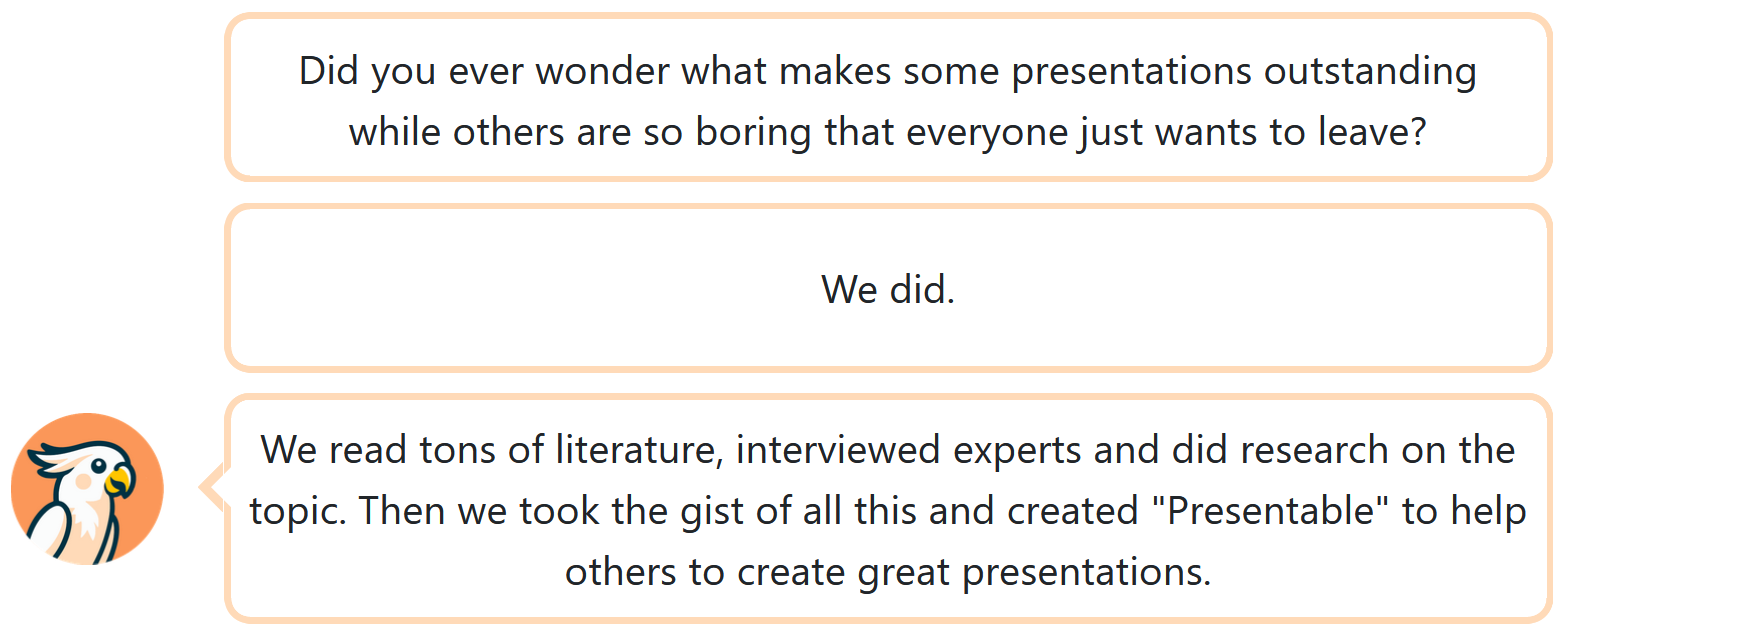
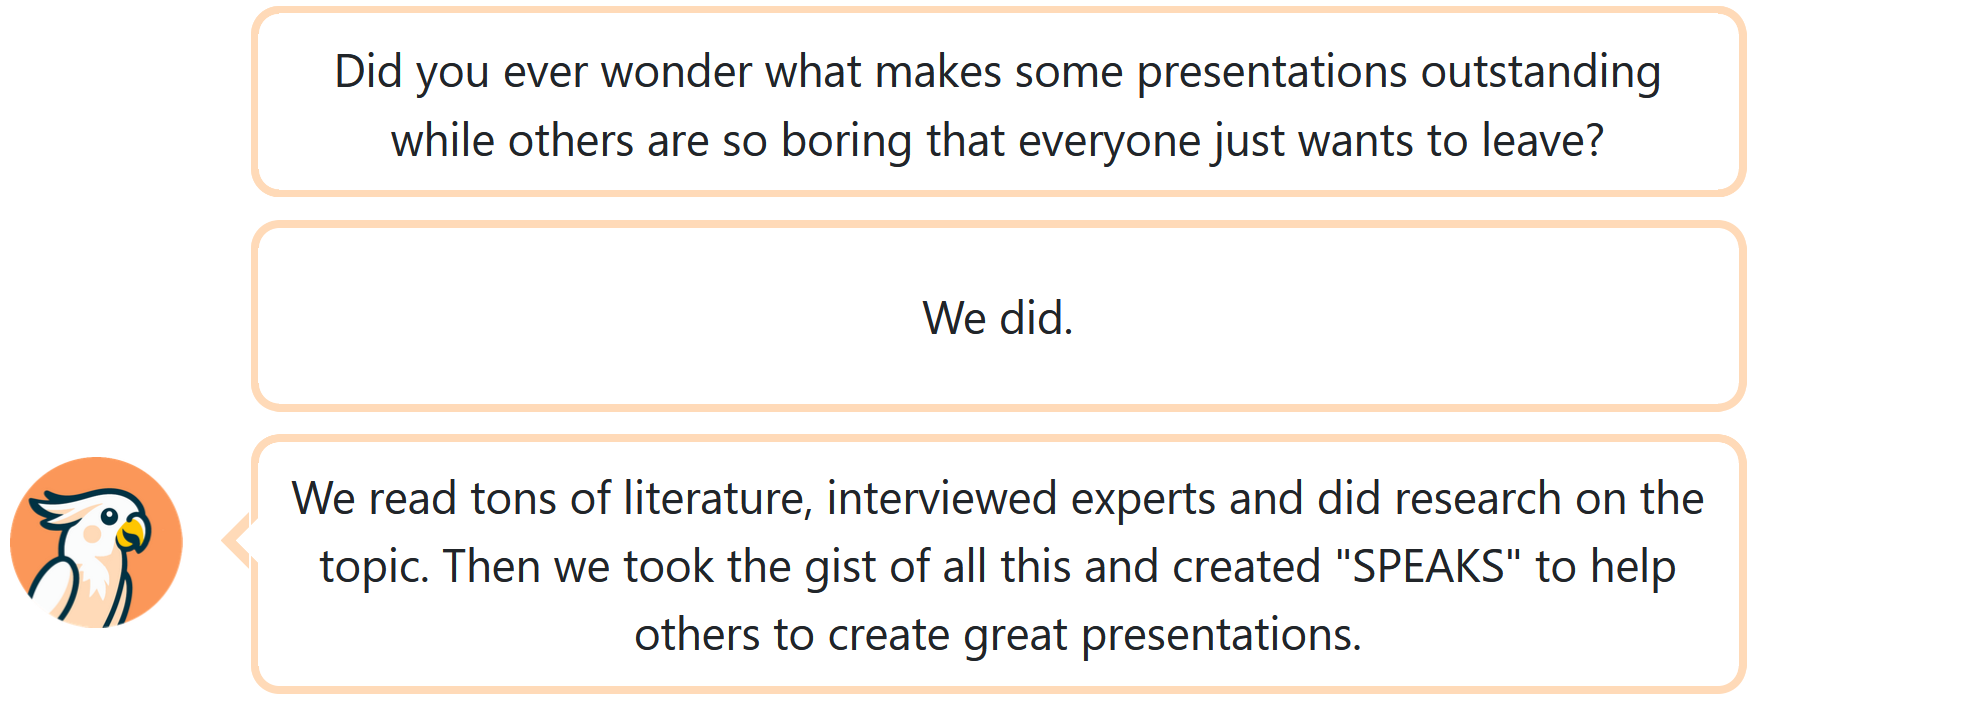
Add content

diff --git a/index.html b/index.html
@@ -302,8 +302,8 @@
                       <br><sup>3</sup> Cologne Game Lab, TH Köln, Germany
                       <br><sup>4</sup> German University of Digital Science, Potsdam, Germany
                       </span>
-                      <span class="author-block" style="color: #555555;">
-                      <br>24th European Conference on E-Learning | ECEL 2025</span>
+                      <span class="author-block is-size-5" style="color: #555555; padding-top: 10px;">
+                      24th European Conference on E-Learning | ECEL 2025</span>
                   </div>
 
                   <div class="column has-text-centered">
@@ -348,7 +348,7 @@
 </section>
 
 <!-- Teaser video-->
-<section class="hero teaser">
+<section class="hero teaser" style="margin-top: -3rem;">
   <div class="container is-max-desktop">
     <div class="hero-body">
         <!-- <h2 class="title is-3  has-text-centered">At a glance</h2> -->
@@ -474,6 +474,64 @@
 </section>-->
 <!-- End image carousel -->
 
+<!-- Image carousel -->
+<section class="hero is-small">
+  <div class="hero-body">
+    <div class="container">
+      <h2 class="title is-3 has-text-centered">How SPEAKS looks</h2>
+      <div id="results-carousel" class="carousel results-carousel">
+       <div class="item">
+          <img src="static/images/SPEAKS-screenshot-1.png" alt="" loading="lazy"/>
+        </div>
+        <div class="item">
+          <img src="static/images/SPEAKS-screenshot-2.png" alt="" loading="lazy"/>
+        </div>
+        <div class="item">
+          <img src="static/images/SPEAKS-screenshot-3.png" alt="" loading="lazy"/>
+        </div>
+        <div class="item">
+          <img src="static/images/SPEAKS-screenshot-4.png" alt="" loading="lazy"/>
+        </div>
+        <div class="item">
+          <img src="static/images/SPEAKS-screenshot-5.png" alt="" loading="lazy"/>
+        </div>
+        <div class="item">
+          <img src="static/images/SPEAKS-screenshot-6.png" alt="" loading="lazy"/>
+        </div>
+      </div>  
+    </div>
+  </div>
+</section>
+
+
+<!-- Image carousel -->
+<section class="hero is-small">
+  <div class="hero-body">
+    <div class="container">
+      <h2 class="title is-3 has-text-centered">User study</h2>
+      <div id="results-carousel" class="carousel results-carousel">
+       <div class="item">
+        <img src="static/images/experimental-procedure.png" alt="What was our experimental procedure? 1) Welcome & Introduction 2) Pre-test questionnaire: Age, Gender, Confidence 3) Using SPEAKS 4) Post-test questionnaire: Confidence, TAM, open-ended questions" loading="lazy"/>
+        </div>
+        <div class="item">
+          <img src="static/images/RQ1a-perceived-usability.png" alt="RQ1a: What is the perceived usability of SPEAKS? Participants found it easy to learn and intuitive to use, but some said it missed flexibility and enabeling them to do what they want. Additionally, some disagreed with the statement that it was clear and understandable, even though the majority agreed with this statement at least slightly." loading="lazy"/>
+        </div>
+        <div class="item">
+          <img src="static/images/RQ1b-perceived-usefulness.png" alt="RQ1b: What is the perceived usefulness of SPEAKS? Participants found SPEAKS useful." loading="lazy"/>
+        </div>
+        <div class="item">
+          <img src="static/images/RQ1c-perceived-learning.png" alt="RQ1c: What is the perceived learning when using SPEAKS? Participants reported to have learnt more about creating engaging introductions and conclusions and to create them before the middle part." loading="lazy"/>
+        </div>
+        <div class="item">
+          <img src="static/images/RQ2-effect on confidence.png" alt="RQ2: RQ2: How does using SPEAKS affect users' confidence in delivering an elevator pitch? Participants' confidence in delivering a good speech increased significantly after using SPEAKS." loading="lazy"/>    
+        </div>
+        <div class="item">
+          <img src="static/images/RQ-results-summary.png" alt="Overview of the results of all RQ." loading="lazy"/>
+        </div>
+      </div>
+    </div>
+  </div>
+</section>
 
 
 
@@ -565,7 +623,7 @@
         </button>
       </div>
       <pre id="bibtex-code"><code>@article{Mouhammad25N,
-  title      = {From {{Nervous}} to {{Noteworthy}}: {{Evaluating SPEAKS}}, an {{Educational Software}} for {{Speech Content}}},
+  title      = {From Nervous to Noteworthy: Evaluating SPEAKS, an Educational Software for Speech Content},
   author     = {Mouhammad, Nina and Schneider, Jan and Klemke, Roland and Di Mitri, Daniele},
   year       = 2025,
   month      = oct,
@@ -594,8 +652,12 @@
             You are free to borrow the source code of this website, we just ask that you link back to this page in the footer. <br> This website is licensed under a <a rel="license"  href="http://creativecommons.org/licenses/by-sa/4.0/" target="_blank">Creative
             Commons Attribution-ShareAlike 4.0 International License</a>.
           </p>
-
+          <br>
+          <div class="has-text-centered">
+            <p>Made by <a href="https://edutec.science" target="_blank" rel="noopener noreferrer">EduTec<span> <span class="sr-only">(opens new window)</span></span></a> with ❤ | <a href="https://edutec.science/imprint/" target="_blank" rel="noopener noreferrer">Imprint<span> <span class="sr-only">(opens new window)</span></span></a></p>
+          </div>
         </div>
+        
       </div>
     </div>
   </div>
